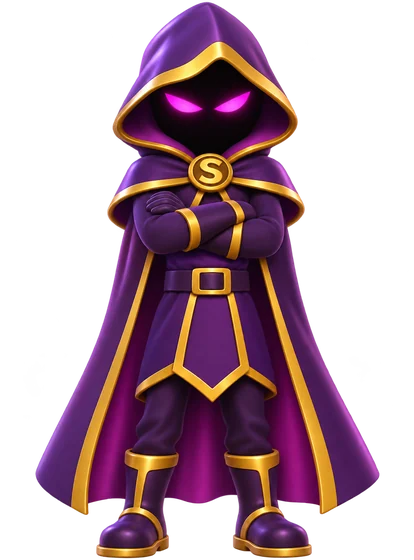
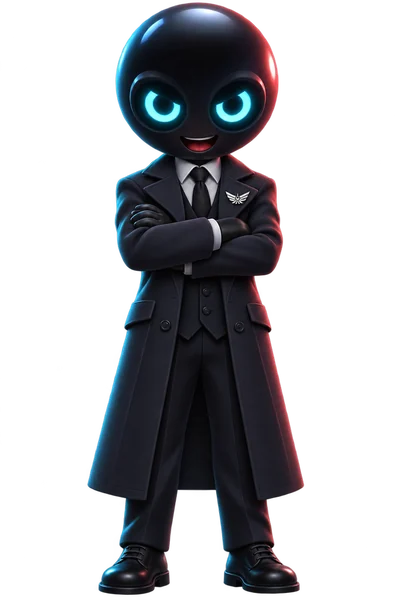
Health Crystal Run: Society agents match the board game design
Claude-Session: https://claude.ai/code/session_01ADQdXeDyBJchVJn97ADW4M

diff --git a/runner/index.html b/runner/index.html
@@ -261,7 +261,7 @@ const lerp=(a,b,t)=>a+(b-a)*t;
 const imgs={};function img(src){if(!imgs[src]){const i=new Image();i.decoding="async";i.src=src;imgs[src]=i}return imgs[src]}
 const ready=i=>i&&i.complete&&i.naturalWidth>0;
 const ASSETS=["bg/lab.webp","bg/city.webp","bg/hosp.webp","img/coin.webp","img/crystal.webp","img/logo.webp",
- ...["wall","block","agent","bollard","cone","lamp","pillar","tree","crates","tape","title"].map(n=>"obj/"+n+".webp"),
+ ...["wall","block","agent","agent_run","society_face","bollard","cone","lamp","pillar","tree","crates","tape","title"].map(n=>"obj/"+n+".webp"),
  ...CHARS.flatMap(c=>["sprites/"+c.id+".webp","faces/"+c.id+".webp"])];
 let loaded=0;ASSETS.forEach(a=>{const i=img(a);const done=()=>{loaded++;if(loaded===ASSETS.length)boot()};if(i.complete)done();else{i.onload=done;i.onerror=done}});
 setTimeout(()=>boot(),8000);
@@ -403,7 +403,7 @@ function showCard(kind,obs){
  const c=nextCard();G.state="card";hint(null);
  const P=$("cardP"),bonus=kind==="bonus";
  const head=bonus?`<div class="card-h"><img src="img/coin.webp" alt=""><div><span class="tag bonus">Warrior Bonus</span><h2>${G.coins} coins! Bonus question</h2></div></div><p class="sub" style="margin:0 0 6px">${EMBED?"Get it right for <b>+5 real points</b> in your Life App.":"Get it right for <b>+500 score</b>."}</p>`
-  :`<div class="card-h"><img src="obj/agent.webp" alt=""><div><span class="tag">Warrior Card</span><h2>${obs.t==="gap"?"You fell in a gap!":"The Society caught you!"}</h2></div></div><div class="myth"><b>"${obs.text}"</b>Answer right to break free and keep running.</div>`;
+  :`<div class="card-h"><img src="obj/society_face.webp" alt="" style="border-radius:50%;background:radial-gradient(circle,#2a1236,#12041c)"><div><span class="tag">Warrior Card</span><h2>${obs.t==="gap"?"You fell in a gap!":"The Society caught you!"}</h2></div></div><div class="myth"><b>"${obs.text}"</b>Answer right to break free and keep running.</div>`;
  P.innerHTML=head+`<div class="q">${c.q}</div><div class="ans">${c.a.map((a,i)=>`<button data-i="${i}">${a}</button>`).join("")}</div><div id="resBox"></div>`;
  $("cardL").classList.remove("hide");P.scrollTop=0;
  P.querySelectorAll(".ans button").forEach(b=>b.onclick=()=>{
@@ -570,7 +570,7 @@ function drawObj(o){
  else if(o.t==="block"){const x=laneX(o.lane);shadow(x,o.z,2);const r=sprite("block",x,o.z,2.15);if(r&&r.w>14){ctx.globalAlpha=f;fitText(o.text,r.x,r.y-r.h*(1-.305),r.w*.66,r.h*.16,"#b0153a");ctx.globalAlpha=1}}
  else if(o.t==="crates"){const x=laneX(o.lane);shadow(x,o.z,1.9);const r=sprite("crates",x,o.z,2.0);if(r&&dz<90)label(o.text,r.x,r.y-r.h-r.s*.15,r.s,f*smooth(90,74,dz),"#7b4dff")}
  else if(o.t==="cone"){const x=laneX(o.lane);shadow(x-.5,o.z,1);shadow(x+.5,o.z,1);sprite("cone",x-.5,o.z,1.05);sprite("cone",x+.5,o.z,1.05)}
- else if(o.t==="agent"){const x=laneX(o.lane);shadow(x,o.z,1.8,.4);const bob=Math.abs(Math.sin(G.t*4+o.z))*.08;const r=sprite("agent",x,o.z,2.1,bob);if(r&&dz<75)speech(o.text,r.x,r.y-r.h-r.s*.2,r.s,f*smooth(75,60,dz))}
+ else if(o.t==="agent"){const x=laneX(o.lane);shadow(x,o.z,1.9,.45);const gp=proj(x,1.9,o.z);if(gp){const gr=gp.s*2.1,g=ctx.createRadialGradient(gp.x,gp.y,0,gp.x,gp.y,gr);g.addColorStop(0,"rgba(94,231,255,.32)");g.addColorStop(1,"rgba(94,231,255,0)");ctx.globalAlpha=f;ctx.fillStyle=g;ctx.fillRect(gp.x-gr,gp.y-gr,gr*2,gr*2);ctx.globalAlpha=1}const bob=Math.abs(Math.sin(G.t*4+o.z))*.08;const r=sprite("agent",x,o.z,2.5,bob);if(r&&dz<75)speech(o.text,r.x,r.y-r.h-r.s*.2,r.s,f*smooth(75,60,dz))}
  else if(o.t==="gate"){const L=proj(-HALF-.7,0,o.z),R=proj(HALF+.7,0,o.z),T=proj(0,6.2,o.z);if(!L||!R||!T)return;ctx.globalAlpha=f;const pw=Math.max(3,L.s*.5);
   const pg=ctx.createLinearGradient(L.x-pw/2,0,L.x+pw/2,0);pg.addColorStop(0,"#b97f0a");pg.addColorStop(.5,"#ffd76a");pg.addColorStop(1,"#b97f0a");ctx.fillStyle=pg;ctx.fillRect(L.x-pw/2,T.y,pw,L.y-T.y);ctx.fillRect(R.x-pw/2,T.y,pw,R.y-T.y);
   const bh=Math.max(14,L.s*1.15);const bg=ctx.createLinearGradient(0,T.y-bh*.2,0,T.y+bh*.8);bg.addColorStop(0,"#9b78ff");bg.addColorStop(1,"#5b2bd0");ctx.fillStyle=bg;rr(L.x-pw,T.y-bh*.2,R.x-L.x+pw*2,bh,bh*.3);ctx.fill();ctx.strokeStyle="#ffc23d";ctx.lineWidth=Math.max(1.5,L.s*.08);ctx.stroke();
@@ -593,7 +593,7 @@ function drawPlayer(){
  if(runAnim&&G.y<=0&&Math.random()<.35)G.parts.push({x:sh.x+(Math.random()-.5)*wid*.4,y:sh.y,vx:(Math.random()-.5)*40,vy:-30-Math.random()*30,life:.35,max:.35,col:"rgba(230,210,255,.6)",size:3+Math.random()*3});
 }
 function drawChase(){if(!(G.chase>0||G.state==="hit"))return;const a=G.state==="hit"?1:Math.min(1,G.chase/1.5)*.9;
- [-1.5,1.5].forEach((o,i)=>sprite("agent",G.x+o,G.pz-(G.state==="hit"?.8:2.4)+Math.sin(G.t*6+i)*.3,1.9,0,a))}
+ [-1.6,1.6].forEach((o,i)=>sprite("agent_run",G.x+o,G.pz-(G.state==="hit"?.8:2.4)+Math.sin(G.t*6+i)*.3,2.6,Math.abs(Math.sin(G.t*9+i))*.15,a,o>0))}
 function drawSpeed(){const sp=G.state==="run"?(G.speed-9)/6:0;if(sp<=0)return;ctx.strokeStyle=`rgba(255,255,255,${.1+.16*sp})`;ctx.lineWidth=2;
  for(let i=0;i<12;i++){const side=i%2?1:-1,ph=((G.t*1.8+i*.29)%1),x=W/2+side*W*(.36+ph*.3),y=HOR+(H-HOR)*(.15+((i*.37)%1)*.6);const dx=(x-W/2)*.12*(1+sp),dy=(y-HOR)*.12*(1+sp);ctx.beginPath();ctx.moveTo(x,y);ctx.lineTo(x+dx,y+dy);ctx.stroke()}}
 function render(){
